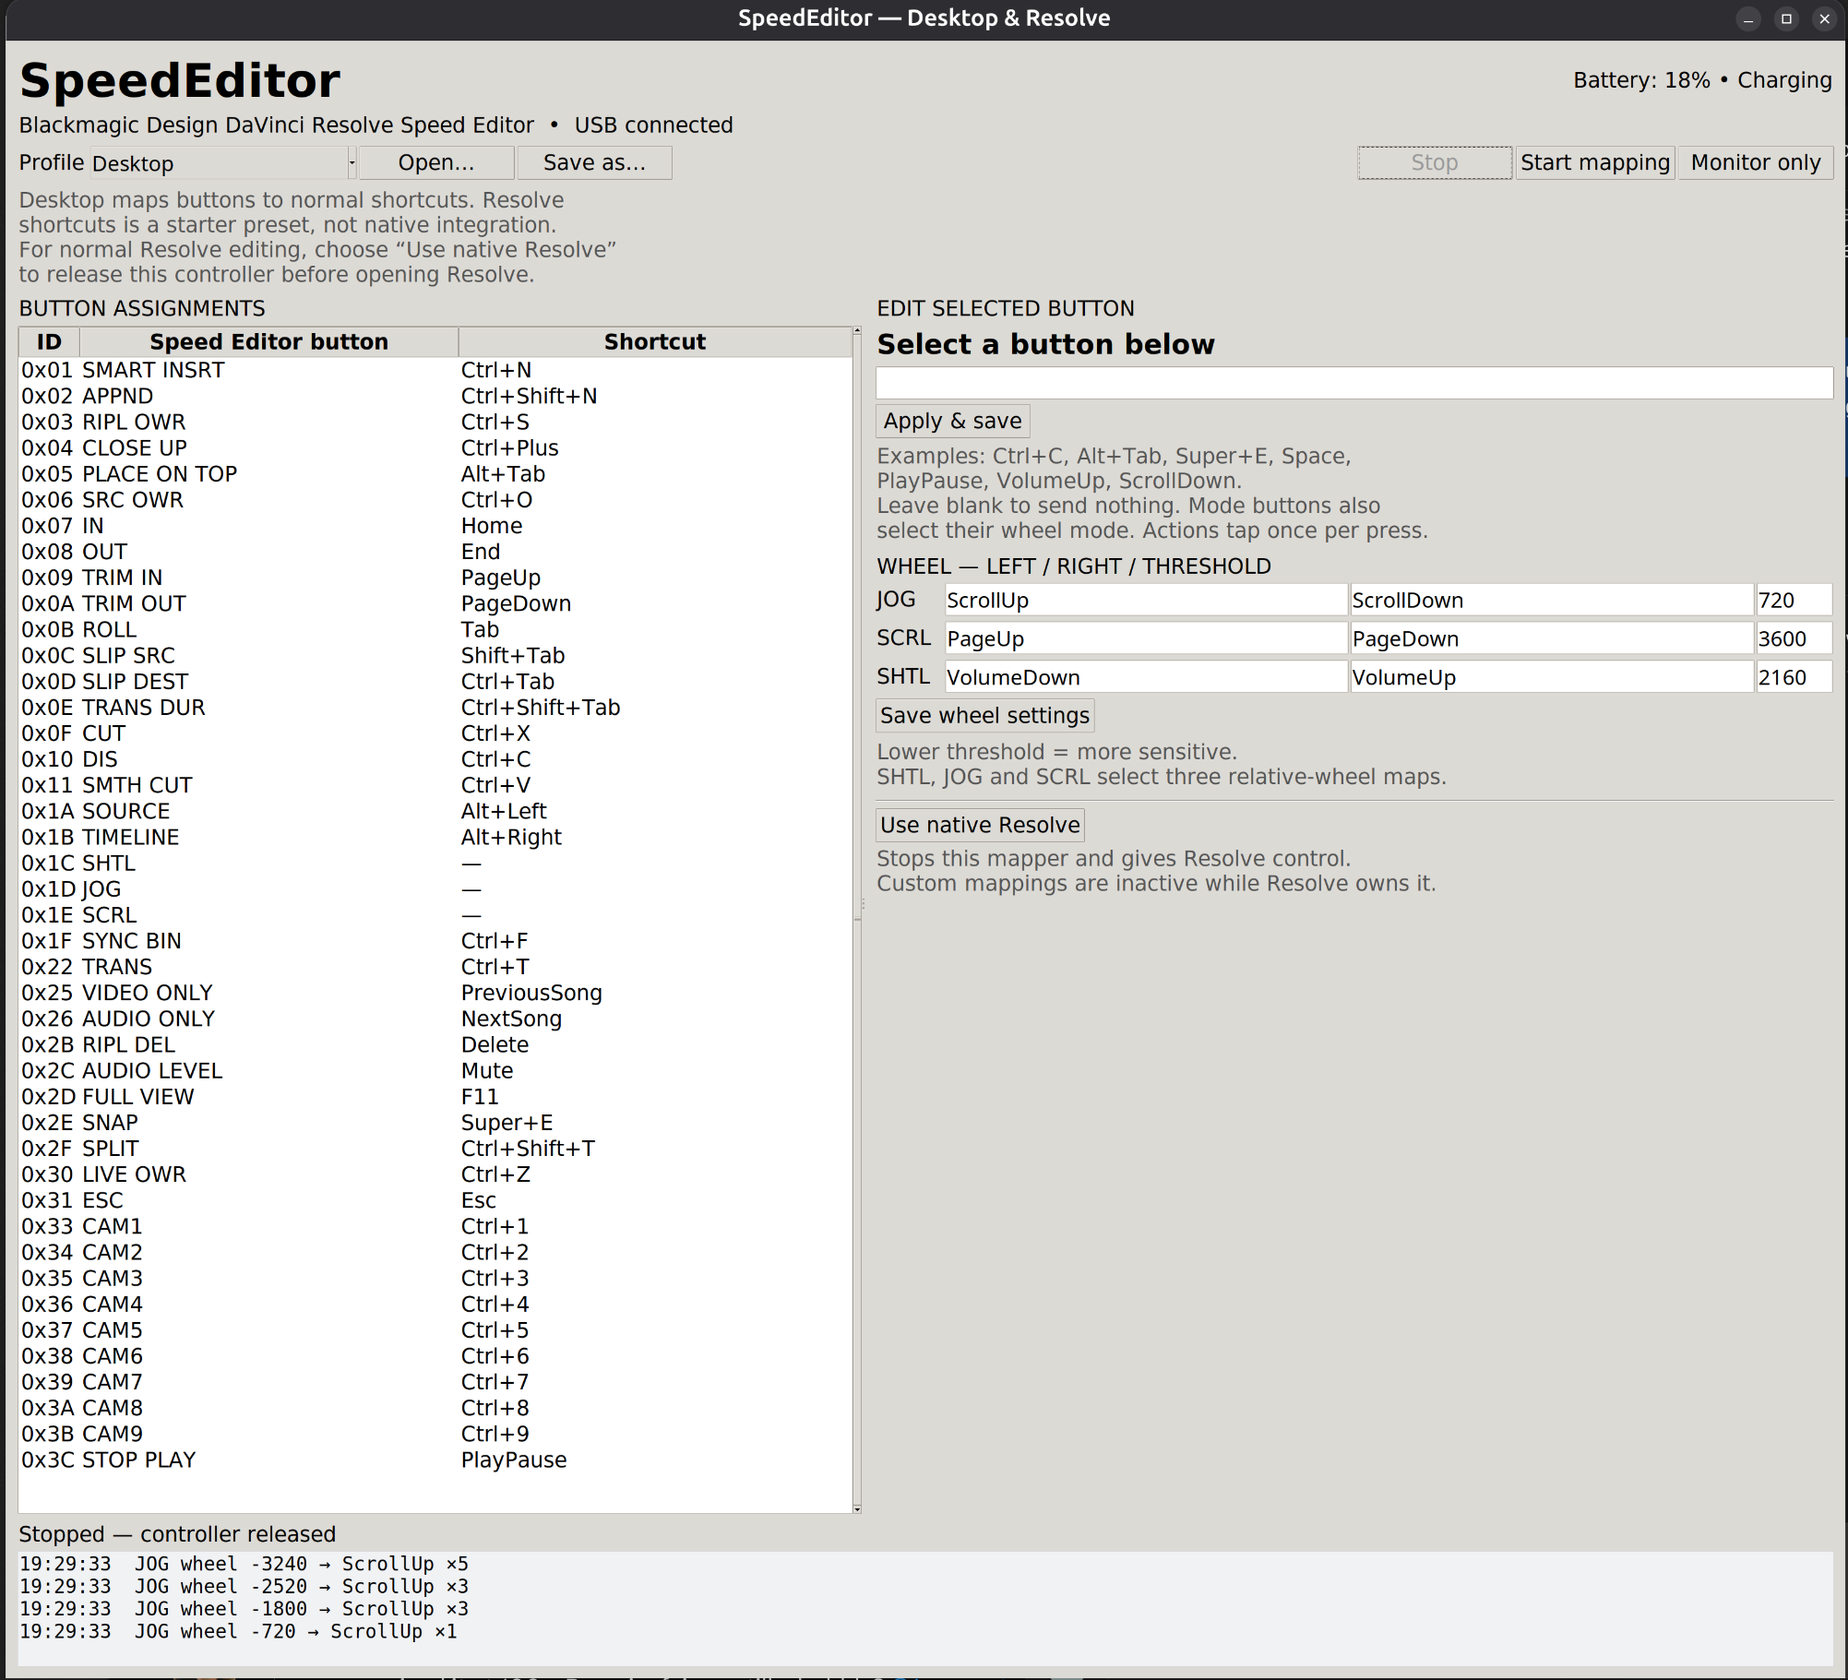
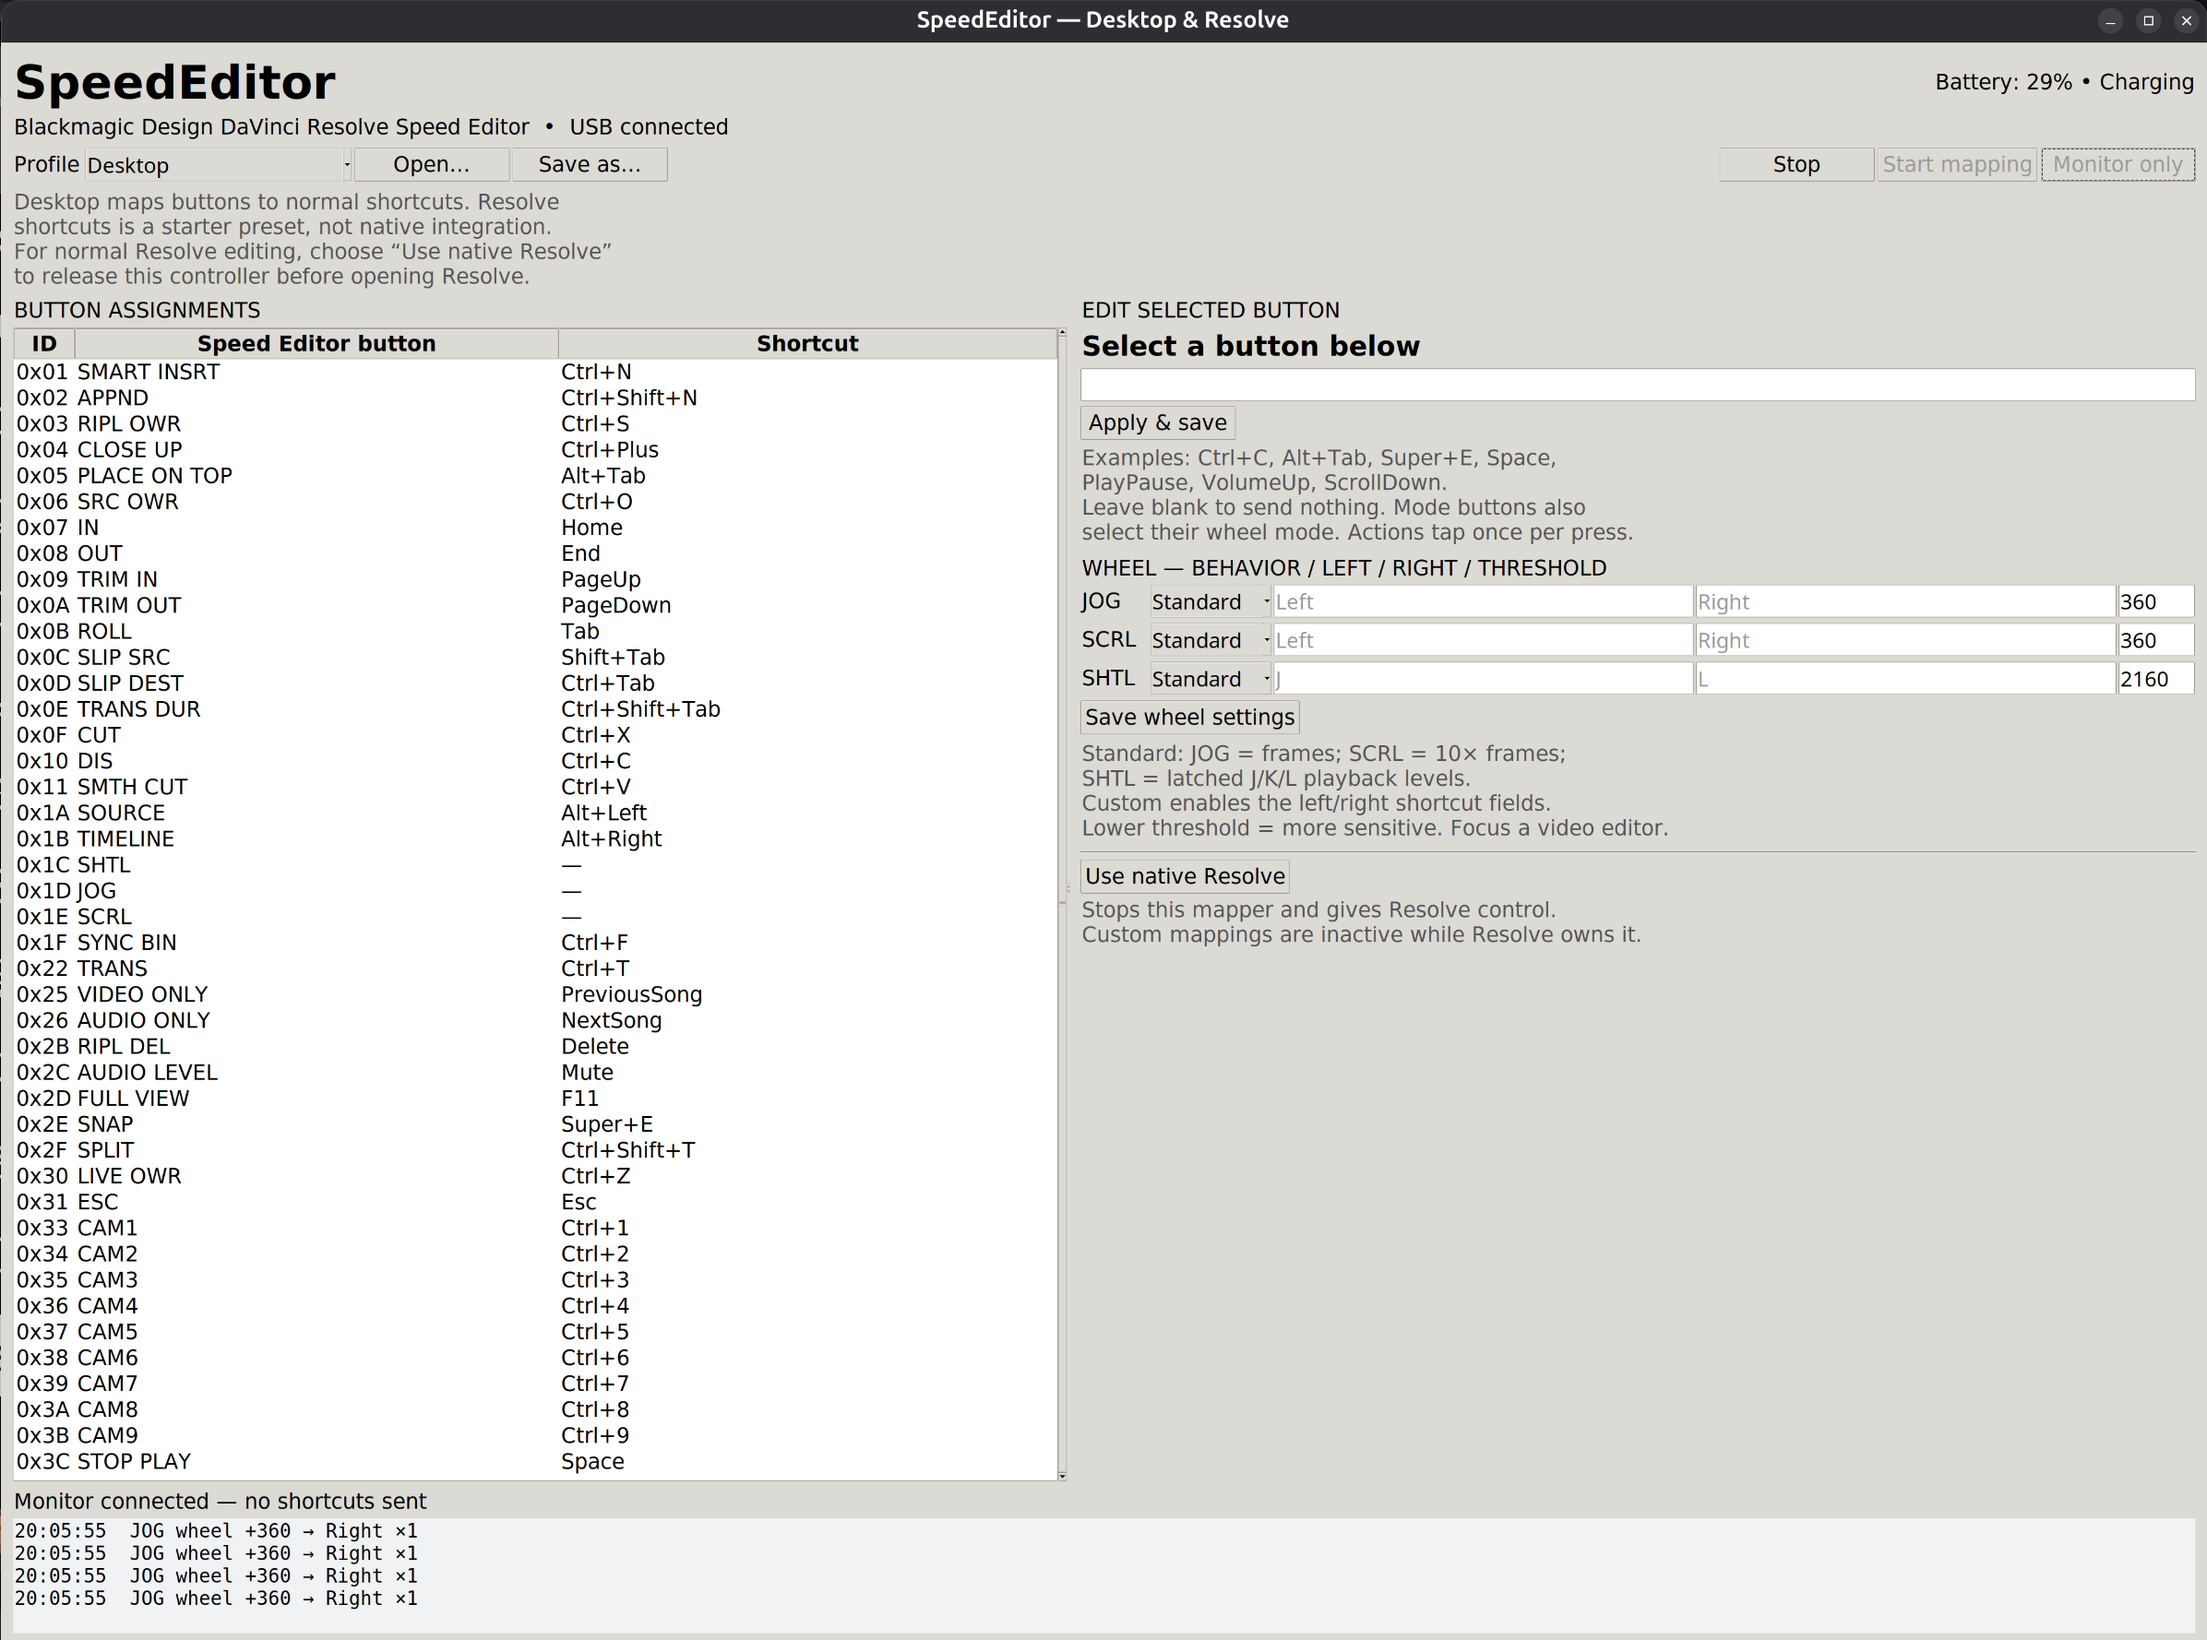
Update README screenshot for standard wheel transport

Changed region(s): [[0.0, 0.0, 1.0, 1.0], [0.4024, 0.0, 0.6191, 0.0309]]

diff --git a/README.md b/README.md
@@ -8,8 +8,8 @@ and charging status without enabling keyboard output.
 
 ![SpeedEditor showing button assignments, wheel settings, and battery charging status](docs/images/speededitor.png)
 
-*The screenshot shows the earlier shortcut-only wheel editor. Current builds
-also include a Standard / Custom selector for each wheel mode.*
+*Current editor with Standard / Custom wheel controls, live monitoring, and
+automatic battery and charging status.*
 
 ## Platform support
 
